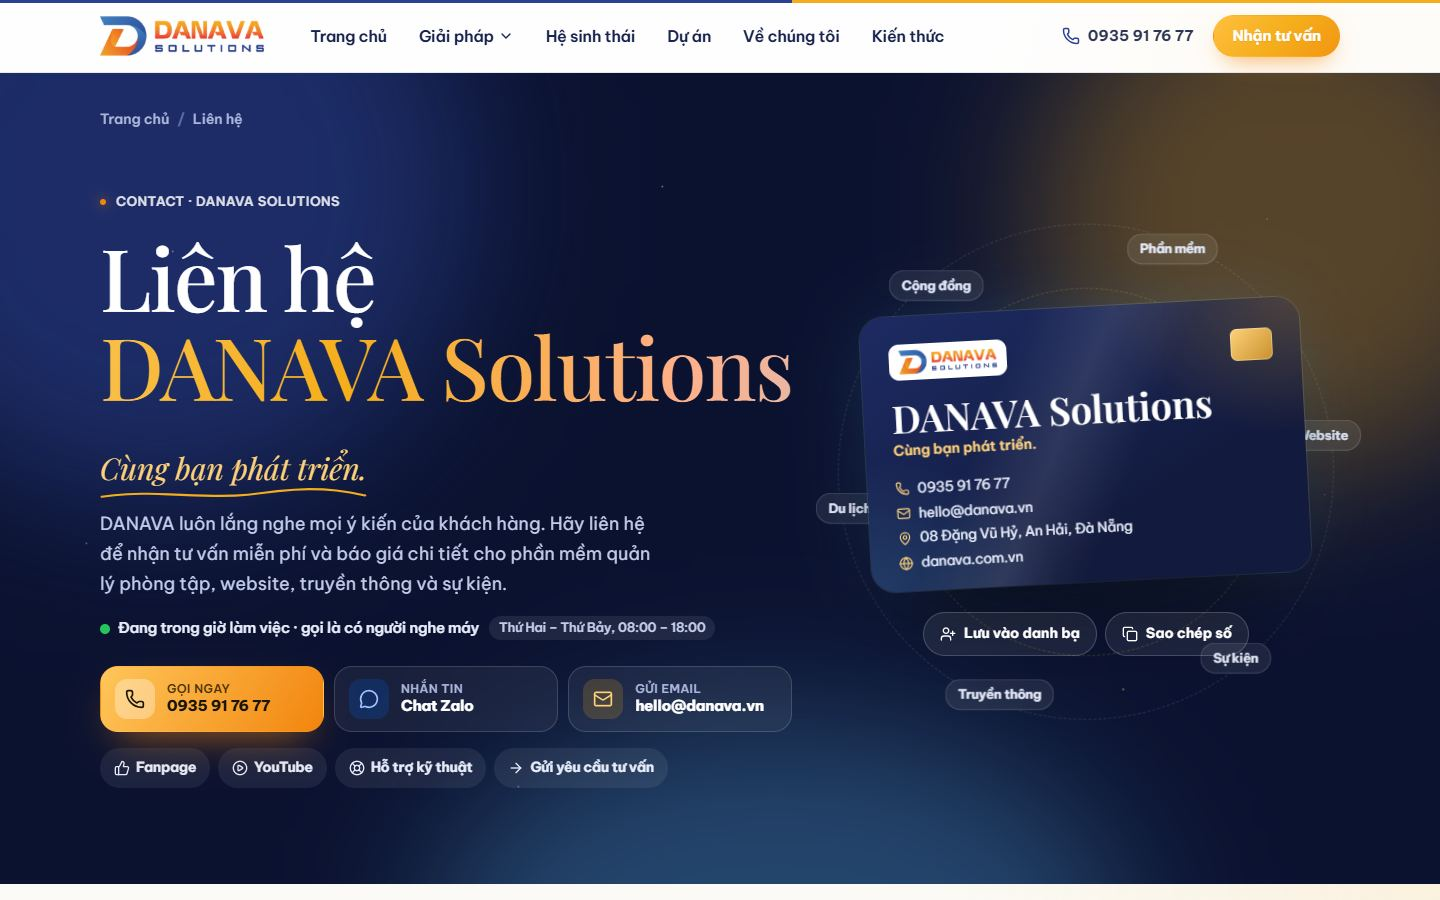
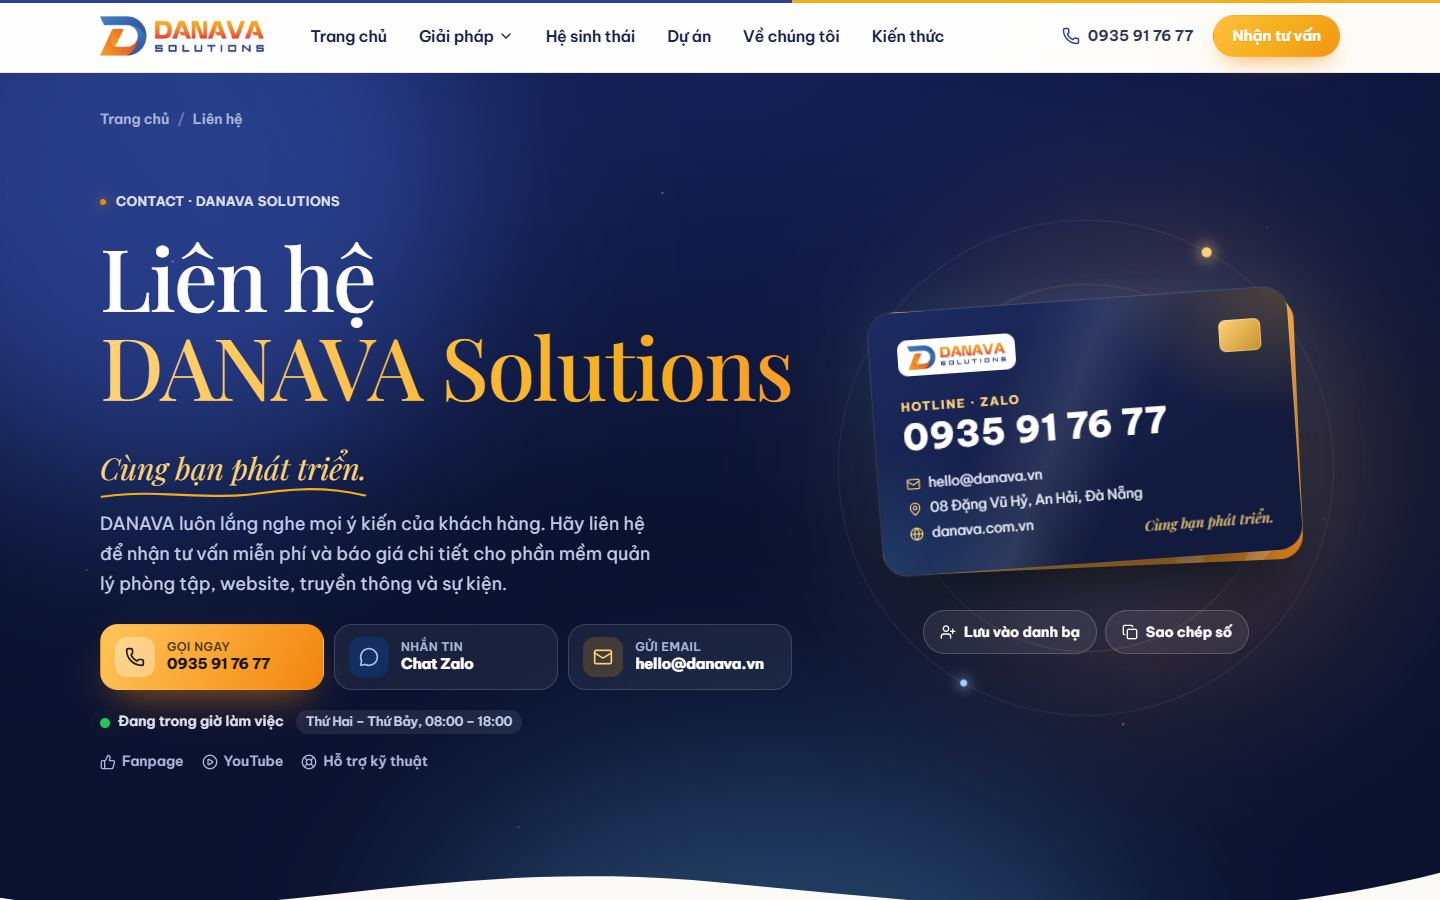
style(contact): cleaner hero; readable numerals site-wide
- Remove the orbiting text chips (they were clipped behind the card); orbits
  now carry small glowing dots, with a soft halo behind the card.
- Fix the muddy top-right glow (screen-blended lights); warm, even gradient on
  "DANAVA Solutions" (no washed-out end).
- Two-layer name card (amber card behind with a "D" mark) focused on the
  hotline; working-hours status and secondary links condensed into one row;
  soft wave flows into the next section.
- Hotline on the card uses Be Vietnam Pro with lining, tabular digits; all
  Playfair numbers site-wide now use lining figures (no uneven old-style digits).

diff --git a/components/site/ContactPage.tsx b/components/site/ContactPage.tsx
@@ -20,9 +20,6 @@ type Errors = Partial<Record<keyof Fields, string>>;
 const EMAIL_RE = /^[^\s@]+@[^\s@]+\.[^\s@]+$/;
 
 
-/** Lĩnh vực của DANAVA bay quanh danh thiếp. */
-const PILLARS = ['Phần mềm', 'Website', 'Sự kiện', 'Truyền thông', 'Du lịch', 'Cộng đồng'];
-
 /** Tên ngắn cho nút chọn nhanh dịch vụ trên form. */
 const CHIP: Record<string, string> = {
   'danava-studio': 'DANAVA Studio', 'thiet-ke-website': 'Website', 'digital-marketing': 'Marketing',
@@ -172,45 +169,44 @@ export function ContactPage({ initialService }: { initialService: string }) {
                 <svg viewBox="0 0 300 20" preserveAspectRatio="none" aria-hidden="true"><path d="M2 14 C 60 2, 120 20, 180 9 S 270 4, 298 12" /></svg>
               </p>
               <p className="c-hero__lead">{copy.lead}</p>
-              {isOpen !== null && (
-                <p className={`c-status${isOpen ? ' is-open' : ''}`} role="status">
-                  <b><i aria-hidden="true" />{isOpen ? 'Đang trong giờ làm việc · gọi là có người nghe máy' : 'Ngoài giờ làm việc · để lại lời nhắn, DANAVA gọi lại vào ngày làm việc kế tiếp'}</b>
-                  <span>{co.hours}</span>
-                </p>
-              )}
               <div className="c-dock">
                 <a className="c-dock__btn c-dock__btn--call" href={`tel:${phone}`}><Phone aria-hidden="true" /><span><small>Gọi ngay</small>{formatPhone(phone)}</span></a>
                 <a className="c-dock__btn c-dock__btn--zalo" href={zalo} target="_blank" rel="noopener noreferrer"><MessageCircle aria-hidden="true" /><span><small>Nhắn tin</small>Chat Zalo</span><span className="c-sr"> (mở tab mới)</span></a>
                 <a className="c-dock__btn c-dock__btn--mail" href={`mailto:${email}`}><Mail aria-hidden="true" /><span><small>Gửi email</small>{email}</span></a>
               </div>
-              <ul className="c-socials" aria-label="Kênh khác">
-                <li><a href={co.facebook} target="_blank" rel="noopener noreferrer"><ThumbsUp aria-hidden="true" />Fanpage<span className="c-sr"> (mở tab mới)</span></a></li>
-                <li><a href={co.youtube} target="_blank" rel="noopener noreferrer"><PlayCircle aria-hidden="true" />YouTube<span className="c-sr"> (mở tab mới)</span></a></li>
-                <li><a href={`mailto:${co.supportEmail}`}><LifeBuoy aria-hidden="true" />Hỗ trợ kỹ thuật</a></li>
-                <li><a href="#dang-ky-tu-van"><ArrowRight aria-hidden="true" />Gửi yêu cầu tư vấn</a></li>
-              </ul>
+              <div className="c-meta">
+                {isOpen !== null && (
+                  <p className={`c-status${isOpen ? ' is-open' : ''}`} role="status">
+                    <i aria-hidden="true" />{isOpen ? 'Đang trong giờ làm việc' : 'Ngoài giờ làm việc · DANAVA gọi lại vào ngày làm việc kế tiếp'}<span>{co.hours}</span>
+                  </p>
+                )}
+                <p className="c-alt">
+                  <a href={co.facebook} target="_blank" rel="noopener noreferrer"><ThumbsUp aria-hidden="true" />Fanpage<span className="c-sr"> (mở tab mới)</span></a>
+                  <a href={co.youtube} target="_blank" rel="noopener noreferrer"><PlayCircle aria-hidden="true" />YouTube<span className="c-sr"> (mở tab mới)</span></a>
+                  <a href={`mailto:${co.supportEmail}`}><LifeBuoy aria-hidden="true" />Hỗ trợ kỹ thuật</a>
+                </p>
+              </div>
             </div>
 
             <div className="c-cardzone">
-              <span className="c-orbit c-orbit--a" aria-hidden="true" />
-              <span className="c-orbit c-orbit--b" aria-hidden="true" />
-              <ul className="c-pillars" aria-label="Lĩnh vực của DANAVA">
-                {PILLARS.map((p, i) => <li key={p} style={{ ['--i' as string]: i, ['--n' as string]: PILLARS.length }}><span>{p}</span></li>)}
-              </ul>
+              <span className="c-orbit c-orbit--a" aria-hidden="true"><i /><i /></span>
+              <span className="c-orbit c-orbit--b" aria-hidden="true"><i /></span>
+              <span className="c-halo" aria-hidden="true" />
               <div className="c-namecard c-namecard--float" ref={cardRef} onPointerMove={tilt} onPointerLeave={untilt}>
+                <div className="c-namecard__back" aria-hidden="true"><span>D</span></div>
                 <div className="c-namecard__face">
                   <div className="c-namecard__top">
-                    <img src="/assets/danava-logo-trim.png" alt="" width={554} height={135} />
+                    <img src="/assets/danava-logo-trim.png" alt="DANAVA Solutions" width={554} height={135} />
                     <span className="c-namecard__chip" aria-hidden="true" />
                   </div>
-                  <p className="c-namecard__brand">DANAVA&nbsp;Solutions</p>
-                  <p className="c-namecard__motto">{data.headline || 'Cùng bạn phát triển.'}</p>
+                  <p className="c-namecard__label">Hotline · Zalo</p>
+                  <p className="c-namecard__phone"><a href={`tel:${phone}`}>{formatPhone(phone)}</a></p>
                   <ul className="c-namecard__lines">
-                    <li><Phone aria-hidden="true" /><a href={`tel:${phone}`}>{formatPhone(phone)}</a></li>
                     <li><Mail aria-hidden="true" /><a href={`mailto:${email}`}>{email}</a></li>
                     <li><MapPin aria-hidden="true" /><a href={co.mapUrl} target="_blank" rel="noopener noreferrer">{co.address}</a></li>
                     <li><Globe aria-hidden="true" /><span>danava.com.vn</span></li>
                   </ul>
+                  <p className="c-namecard__motto">{data.headline || 'Cùng bạn phát triển.'}</p>
                 </div>
               </div>
               <div className="c-cardacts">
@@ -220,6 +216,9 @@ export function ContactPage({ initialService }: { initialService: string }) {
             </div>
           </div>
         </div>
+        <svg className="c-wave" viewBox="0 0 1440 90" preserveAspectRatio="none" aria-hidden="true">
+          <path d="M0 56 C 240 96, 420 10, 720 40 S 1200 92, 1440 30 L1440 90 L0 90 Z" />
+        </svg>
       </section>
 
       {/* Sau lời chào: quy trình hợp tác (CMS → Về DANAVA → Quy trình hợp tác), nối bằng đường cong như dòng sông */}

diff --git a/app/(site)/site-theme.css b/app/(site)/site-theme.css
@@ -622,3 +622,53 @@ body:has(.s-app) { background: var(--s-bg); }
   .c-journey__river { display: none; }
   .c-pillars span { font-size: 11px; padding: 4px 9px; }
 }
+
+/* ---- Liên hệ: tinh chỉnh (ánh sáng trong trẻo, danh thiếp 2 lớp, quỹ đạo đốm sáng, sóng mềm) ---- */
+.c-hero--aurora { isolation: isolate; padding-bottom: clamp(96px, 11vw, 150px); background: radial-gradient(120% 90% at 50% 0%, #142057 0%, #0b1230 60%); }
+.c-aurora i { mix-blend-mode: screen; filter: blur(90px); }
+.c-aurora i:nth-child(1) { background: #3553c4; opacity: .5; }
+.c-aurora i:nth-child(2) { width: 460px; height: 460px; right: 4%; top: 18%; background: #ff9f43; opacity: .22; }
+.c-aurora i:nth-child(3) { background: #53a5db; opacity: .3; }
+/* Chữ thương hiệu: một dải màu ấm, không nhạt về cuối */
+.c-hero--aurora .c-brand { background-image: linear-gradient(95deg, #ffe2a3 0%, #ffc65a 30%, #f5ae1b 55%, #ff8a3d 80%, #ffc65a 100%); }
+
+/* Trạng thái + liên kết phụ gọn trên một hàng */
+.c-meta { display: flex; flex-wrap: wrap; align-items: center; gap: 10px 22px; margin-top: 20px; }
+.c-hero--aurora .c-status { display: inline-flex; align-items: center; gap: 8px; margin: 0; font-size: 14px; color: #dfe6fb; }
+.c-hero--aurora .c-status span { margin-left: 4px; }
+.c-alt { display: flex; flex-wrap: wrap; gap: 6px 18px; margin: 0; }
+.c-alt a { display: inline-flex; align-items: center; gap: 6px; min-height: 36px; font-size: 14px; font-weight: 600; color: #aab6dc; text-decoration: none; transition: color .2s; }
+.c-alt a:hover { color: #fff; }
+.c-alt svg { width: 16px; height: 16px; }
+
+/* Quỹ đạo: đốm sáng chạy theo vòng, không có chữ */
+.c-hero--aurora .c-orbit { border-style: solid; border-color: #ffffff14; }
+.c-hero--aurora .c-orbit--b { border-color: #f5ae1b2e; }
+.c-orbit i { position: absolute; left: 50%; top: -5px; width: 10px; height: 10px; margin-left: -5px; border-radius: 50%; background: #ffd27a; box-shadow: 0 0 14px 4px #ffd27a80; }
+.c-orbit i + i { top: auto; bottom: -4px; width: 7px; height: 7px; background: #9fd3ff; box-shadow: 0 0 12px 3px #9fd3ff80; }
+.c-orbit--b i { background: #ff9f43; box-shadow: 0 0 14px 4px #ff9f4380; }
+.c-halo { position: absolute; left: 50%; top: 46%; width: min(420px, 90%); aspect-ratio: 1; border-radius: 50%; transform: translate(-50%, -50%); background: radial-gradient(circle, #f5ae1b33 0%, #3553c41f 45%, transparent 70%); pointer-events: none; }
+
+/* Danh thiếp 2 lớp: thẻ cam phía sau tạo chiều sâu */
+.c-hero--aurora .c-namecard { width: min(420px, 92%); transform: rotateX(var(--rx)) rotateY(var(--ry)) rotate(-4deg); }
+.c-namecard__back { position: absolute; inset: 0; overflow: hidden; border-radius: 24px; background: linear-gradient(140deg, #ffd27a, #f2850e); transform: rotate(10deg) translate(22px, 14px); box-shadow: 0 30px 60px -30px #000a; }
+.c-namecard__back span { position: absolute; right: 14px; bottom: -30px; font-family: var(--font-display); font-size: 170px; font-weight: 700; line-height: 1; color: #ffffff3d; }
+.c-namecard__face { z-index: 1; }
+@media (prefers-reduced-motion: no-preference) { .c-namecard--float .c-namecard__back { animation: c-bob 7s ease-in-out infinite; animation-delay: -1.2s; } }
+.c-namecard__label { margin: clamp(14px, 2.4vw, 22px) 0 0; font-size: 11.5px; font-weight: 700; letter-spacing: .16em; text-transform: uppercase; color: #ffd27a; }
+.c-namecard__phone { margin: 2px 0 0; }
+.c-namecard__phone a { font-family: var(--font-sans); font-size: clamp(28px, 3.1vw, 36px); font-weight: 800; letter-spacing: .02em; font-variant-numeric: lining-nums tabular-nums; line-height: 1.1; color: #fff; text-decoration: none; white-space: nowrap; }
+.c-namecard__phone a:hover { color: #ffd27a; }
+.c-namecard__face .c-namecard__motto { position: absolute; right: clamp(18px, 3vw, 28px); bottom: clamp(14px, 2.4vw, 22px); margin: 0; font-family: var(--font-display); font-style: italic; font-size: 14px; color: #ffd27acc; }
+.c-hero--aurora .c-cardacts { margin-top: 18px; }
+
+/* Sóng mềm nối sang phần "Sau lời chào" */
+.c-wave { position: absolute; left: 0; right: 0; bottom: -1px; z-index: 1; display: block; width: 100%; height: clamp(44px, 6vw, 90px); }
+.c-wave path { fill: #fbfaf6; }
+
+@media (max-width: 640px) {
+  .c-namecard__back { transform: rotate(8deg) translate(12px, 10px); }
+  .c-namecard__face .c-namecard__motto { position: static; margin-top: 8px; }
+  .c-meta { gap: 8px 16px; }
+}
+@media (prefers-reduced-motion: reduce) { .c-hero--aurora .c-namecard { transform: rotate(-4deg); } }

diff --git a/app/fonts.css b/app/fonts.css
@@ -9,3 +9,5 @@
   --font-display: var(--font-playfair), 'Playfair Display', Georgia, 'Times New Roman', serif;
 }
 body, button, input, select, textarea { font-family: var(--font-sans); }
+/* Số luôn cao bằng nhau (Playfair mặc định dùng số kiểu cổ, cao thấp lệch nhau, khó đọc) */
+html { font-variant-numeric: lining-nums; }
